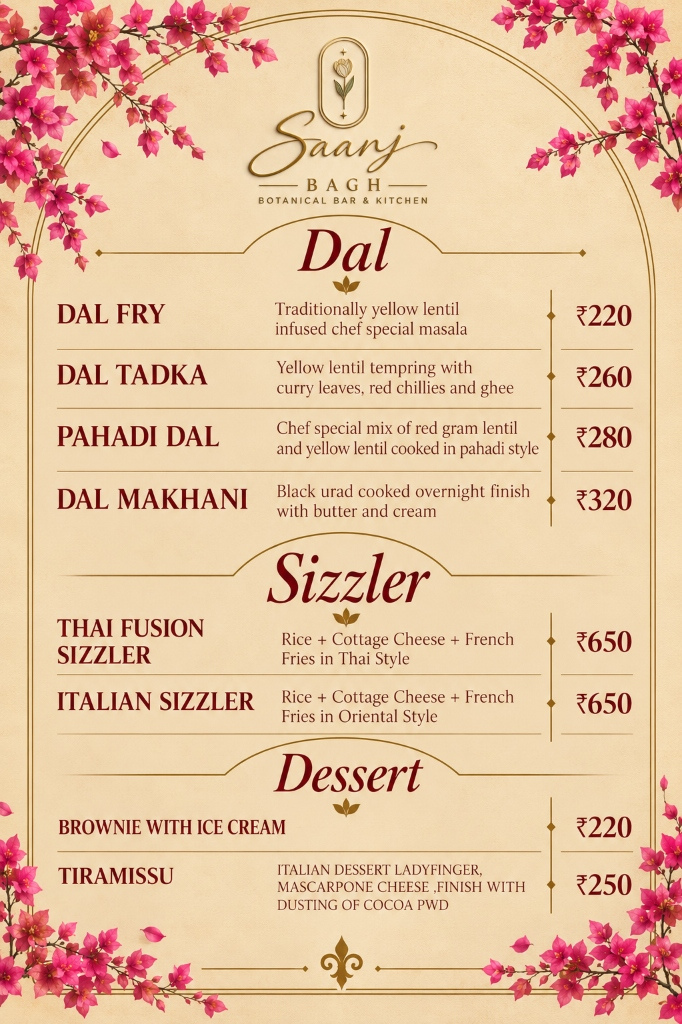
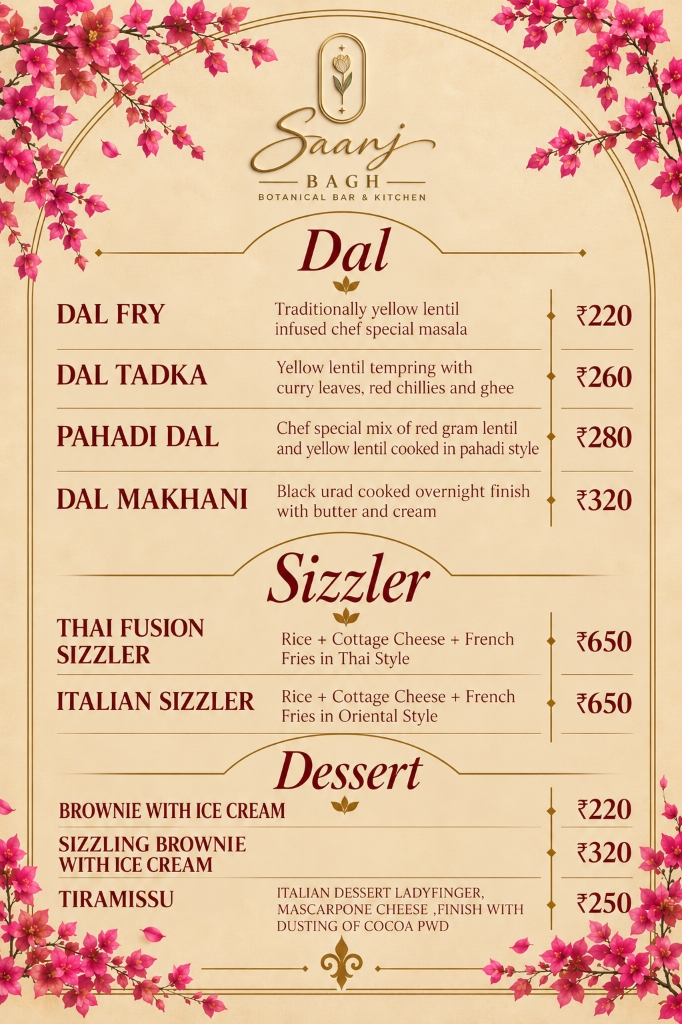
Expand Beverages to 4 pages and update Food Menu last page with Desserts

diff --git a/styles.css b/styles.css
@@ -748,56 +748,47 @@ html, body {
   -webkit-user-drag: none;
 }
 
-/* Beverages Page 1: Shakes, Smoothies & Beverages (Page 1) */
-.bev-shakes-layer {
-  z-index: 2;
-  background: #FDF4E7;
-  opacity: 1;
-  pointer-events: none;
-}
-
-/* Beverages Page 0: Coffee (Page 0) */
-.bev-coffee-layer {
-  z-index: 4;
-  background: #F8ECD7;
-  opacity: 1;
-  pointer-events: auto;
-}
+/* Beverages Layer Stacking (4 Pages) */
+.bev-beverages-layer { z-index: 2; background: #FDF4E7; opacity: 1; pointer-events: none; }
+.bev-shakes-smoothies-layer { z-index: 4; background: #F8ECD7; opacity: 1; pointer-events: none; }
+.bev-coffee-shakes-layer { z-index: 6; background: #FDF4E7; opacity: 1; pointer-events: none; }
+.bev-coffee-layer { z-index: 8; background: #F8ECD7; opacity: 1; pointer-events: auto; }
 
 /* Beverages State: Page 0 (Coffee active) */
-.menu-book-container[data-menu="beverages"][data-state="bev-0"] .bev-coffee-layer {
-  opacity: 1;
-  pointer-events: auto;
-  visibility: visible;
-}
-.menu-book-container[data-menu="beverages"][data-state="bev-0"] .bev-shakes-layer {
-  opacity: 1;
-  pointer-events: none;
-  visibility: visible;
-}
+.menu-book-container[data-menu="beverages"][data-state="bev-0"] .bev-coffee-layer { opacity: 1; pointer-events: auto; visibility: visible; }
+.menu-book-container[data-menu="beverages"][data-state="bev-0"] .bev-coffee-shakes-layer { opacity: 1; pointer-events: none; visibility: visible; }
 
 /* Beverages State: Animating Page 0 -> 1 */
-.menu-book-container[data-menu="beverages"][data-state="animating-bev-0-1"] .bev-coffee-layer {
-  opacity: 0;
-  pointer-events: none;
-}
-.menu-book-container[data-menu="beverages"][data-state="animating-bev-0-1"] .bev-shakes-layer {
-  opacity: 1;
-  pointer-events: none;
-  visibility: visible;
-}
+.menu-book-container[data-menu="beverages"][data-state="animating-bev-0-1"] .bev-coffee-layer { opacity: 0; pointer-events: none; }
+.menu-book-container[data-menu="beverages"][data-state="animating-bev-0-1"] .bev-coffee-shakes-layer { opacity: 1; pointer-events: none; visibility: visible; }
 
-/* Beverages State: Page 1 (Shakes, Smoothies & Beverages active) */
-.menu-book-container[data-menu="beverages"][data-state="bev-1"] .bev-coffee-layer {
-  opacity: 0;
-  pointer-events: none;
-  visibility: hidden;
-}
-.menu-book-container[data-menu="beverages"][data-state="bev-1"] .bev-shakes-layer {
-  opacity: 1;
-  pointer-events: auto;
-  visibility: visible;
-}
+/* Beverages State: Page 1 (Coffee & Shakes active) */
+.menu-book-container[data-menu="beverages"][data-state="bev-1"] .bev-coffee-layer { opacity: 0; pointer-events: none; visibility: hidden; }
+.menu-book-container[data-menu="beverages"][data-state="bev-1"] .bev-coffee-shakes-layer { opacity: 1; pointer-events: auto; visibility: visible; }
+.menu-book-container[data-menu="beverages"][data-state="bev-1"] .bev-shakes-smoothies-layer { opacity: 1; pointer-events: none; visibility: visible; }
+
+/* Beverages State: Animating Page 1 -> 2 */
+.menu-book-container[data-menu="beverages"][data-state="animating-bev-1-2"] .bev-coffee-layer { opacity: 0; pointer-events: none; visibility: hidden; }
+.menu-book-container[data-menu="beverages"][data-state="animating-bev-1-2"] .bev-coffee-shakes-layer { opacity: 0; pointer-events: none; }
+.menu-book-container[data-menu="beverages"][data-state="animating-bev-1-2"] .bev-shakes-smoothies-layer { opacity: 1; pointer-events: none; visibility: visible; }
+
+/* Beverages State: Page 2 (Shakes & Smoothies active) */
+.menu-book-container[data-menu="beverages"][data-state="bev-2"] .bev-coffee-layer,
+.menu-book-container[data-menu="beverages"][data-state="bev-2"] .bev-coffee-shakes-layer { opacity: 0; pointer-events: none; visibility: hidden; }
+.menu-book-container[data-menu="beverages"][data-state="bev-2"] .bev-shakes-smoothies-layer { opacity: 1; pointer-events: auto; visibility: visible; }
+.menu-book-container[data-menu="beverages"][data-state="bev-2"] .bev-beverages-layer { opacity: 1; pointer-events: none; visibility: visible; }
+
+/* Beverages State: Animating Page 2 -> 3 */
+.menu-book-container[data-menu="beverages"][data-state="animating-bev-2-3"] .bev-coffee-layer,
+.menu-book-container[data-menu="beverages"][data-state="animating-bev-2-3"] .bev-coffee-shakes-layer { opacity: 0; pointer-events: none; visibility: hidden; }
+.menu-book-container[data-menu="beverages"][data-state="animating-bev-2-3"] .bev-shakes-smoothies-layer { opacity: 0; pointer-events: none; }
+.menu-book-container[data-menu="beverages"][data-state="animating-bev-2-3"] .bev-beverages-layer { opacity: 1; pointer-events: none; visibility: visible; }
+
+/* Beverages State: Page 3 (Beverages active) */
+.menu-book-container[data-menu="beverages"][data-state="bev-3"] .bev-coffee-layer,
+.menu-book-container[data-menu="beverages"][data-state="bev-3"] .bev-coffee-shakes-layer,
+.menu-book-container[data-menu="beverages"][data-state="bev-3"] .bev-shakes-smoothies-layer { opacity: 0; pointer-events: none; visibility: hidden; }
+.menu-book-container[data-menu="beverages"][data-state="bev-3"] .bev-beverages-layer { opacity: 1; pointer-events: auto; visibility: visible; }
 
 /* --- 3B. DELICATE BOTANICAL COVER BREEZE ANIMATION --- */
 /* Strictly pure foliage movement: zero architectural, arch, pillar, or border movement */

diff --git a/index.html b/index.html
@@ -20,7 +20,7 @@
     }
   </script>
   <link rel="icon" type="image/jpeg" href="assets/images/saanj-bagh-logo.jpg">
-  <link rel="stylesheet" href="styles.css?v=20261021f">
+  <link rel="stylesheet" href="styles.css?v=20261021h">
   <script>
     // Early Synchronous View Routing Detector (prevents visual flashing)
     (function() {
@@ -85,10 +85,10 @@
              PAGE LAYER: 09 · INDIAN MENU — PAGE 3: DAL & SIZZLER (Page 9)
              Revealed when turning forward from Indian Page 2
              ====================================================== -->
-        <div class="book-layer food-layer indian-layer indian-3-layer" id="indian3Layer" aria-label="Indian Menu — Dal &amp; Sizzler">
+        <div class="book-layer food-layer indian-layer indian-3-layer" id="indian3Layer" aria-label="Indian Menu — Dal, Sizzler &amp; Dessert">
           <img 
-            src="assets/images/indian-3.jpg" 
-            alt="Saanj Bagh — Indian Menu — Dal &amp; Sizzler (Page 3)" 
+            src="assets/images/indian-3.jpg?v=20261021h" 
+            alt="Saanj Bagh — Indian Menu — Dal, Sizzler &amp; Dessert (Page 9)" 
             class="menu-artwork-img"
             id="indian3Artwork"
             draggable="false"
@@ -522,15 +522,43 @@
         </div>
 
         <!-- ======================================================
-             BEVERAGES MENU PAGE LAYER 1: SHAKES, SMOOTHIES & BEVERAGES (Beverages Page 1)
+             BEVERAGES MENU PAGE LAYER 3: BEVERAGES (Beverages Page 3)
+             Revealed when turning forward from Shakes & Smoothies
+             ====================================================== -->
+        <div class="book-layer bev-layer bev-beverages-layer" id="bevBeveragesLayer" aria-label="Beverages — Refreshers &amp; Beverages">
+          <img 
+            src="assets/images/beverages-4-beverages.jpg?v=20261021g" 
+            alt="Saanj Bagh — Beverages Menu" 
+            class="menu-artwork-img bev-artwork-img"
+            id="bevBeveragesArtwork"
+            draggable="false"
+          />
+        </div>
+
+        <!-- ======================================================
+             BEVERAGES MENU PAGE LAYER 2: SHAKES & SMOOTHIES (Beverages Page 2)
+             Revealed when turning forward from Coffee & Shakes
+             ====================================================== -->
+        <div class="book-layer bev-layer bev-shakes-smoothies-layer" id="bevShakesSmoothiesLayer" aria-label="Beverages — Shakes &amp; Smoothies">
+          <img 
+            src="assets/images/beverages-3-shakes-smoothies.jpg?v=20261021g" 
+            alt="Saanj Bagh — Shakes &amp; Smoothies Menu" 
+            class="menu-artwork-img bev-artwork-img"
+            id="bevShakesSmoothiesArtwork"
+            draggable="false"
+          />
+        </div>
+
+        <!-- ======================================================
+             BEVERAGES MENU PAGE LAYER 1: COFFEE & SHAKES (Beverages Page 1)
              Revealed when turning forward from Coffee
              ====================================================== -->
-        <div class="book-layer bev-layer bev-shakes-layer" id="bevShakesLayer" aria-label="Beverages — Shakes, Smoothies &amp; Beverages">
+        <div class="book-layer bev-layer bev-coffee-shakes-layer" id="bevCoffeeShakesLayer" aria-label="Beverages — Coffee &amp; Shakes">
           <img 
-            src="assets/images/shakes-beverages-menu.jpg" 
-            alt="Saanj Bagh — Shakes, Smoothies &amp; Beverages Menu" 
+            src="assets/images/beverages-2-coffee-shakes.jpg?v=20261021g" 
+            alt="Saanj Bagh — Coffee &amp; Shakes Menu" 
             class="menu-artwork-img bev-artwork-img"
-            id="bevShakesArtwork"
+            id="bevCoffeeShakesArtwork"
             draggable="false"
           />
         </div>
@@ -541,7 +569,7 @@
              ====================================================== -->
         <div class="book-layer bev-layer bev-coffee-layer" id="bevCoffeeLayer" aria-label="Beverages — Coffee Menu">
           <img 
-            src="assets/images/coffee-menu.png" 
+            src="assets/images/beverages-1-coffee.jpg?v=20261021g" 
             alt="Saanj Bagh — Coffee Menu" 
             class="menu-artwork-img bev-artwork-img"
             id="bevCoffeeArtwork"
@@ -1155,6 +1183,19 @@
         <p>Rice + Cottage Cheese + French Fries In Oriental Style</p>
         <span>Price: ₹650</span>
       </article>
+      <article>
+        <h3>23 — Brownie with Ice Cream</h3>
+        <span>Price: ₹220</span>
+      </article>
+      <article>
+        <h3>24 — Sizzling Brownie with Ice Cream</h3>
+        <span>Price: ₹320</span>
+      </article>
+      <article>
+        <h3>25 — Tiramissu</h3>
+        <p>Italian dessert ladyfinger, mascarpone cheese, finish with dusting of cocoa pwd</p>
+        <span>Price: ₹250</span>
+      </article>
     </section>
 
     <!-- Beverages Menu Semantic Content -->
@@ -1331,7 +1372,7 @@
     </section>
   </div>
 
-  <script src="app.js?v=20261021f"></script>
+  <script src="app.js?v=20261021h"></script>
 </body>
 </html>
 

diff --git a/app.js b/app.js
@@ -107,11 +107,16 @@ document.addEventListener('DOMContentLoaded', () => {
   const cocktailWineArtwork = document.getElementById('cocktailWineArtwork');
   const cocktailIcedTeaArtwork = document.getElementById('cocktailIcedTeaArtwork');
 
-  // Beverages Menu Layers & Artworks (Coffee + Shakes, Smoothies & Beverages)
+  // Beverages Menu Layers & Artworks (4 Pages)
   const bevCoffeeLayer = document.getElementById('bevCoffeeLayer');
-  const bevShakesLayer = document.getElementById('bevShakesLayer');
+  const bevCoffeeShakesLayer = document.getElementById('bevCoffeeShakesLayer');
+  const bevShakesSmoothiesLayer = document.getElementById('bevShakesSmoothiesLayer');
+  const bevBeveragesLayer = document.getElementById('bevBeveragesLayer');
+
   const bevCoffeeArtwork = document.getElementById('bevCoffeeArtwork');
-  const bevShakesArtwork = document.getElementById('bevShakesArtwork');
+  const bevCoffeeShakesArtwork = document.getElementById('bevCoffeeShakesArtwork');
+  const bevShakesSmoothiesArtwork = document.getElementById('bevShakesSmoothiesArtwork');
+  const bevBeveragesArtwork = document.getElementById('bevBeveragesArtwork');
 
   // 4-Way Menu Switcher Controls
   const btnFoodMenu = document.getElementById('btnFoodMenu');
@@ -161,8 +166,10 @@ document.addEventListener('DOMContentLoaded', () => {
   ];
 
   const BEVERAGES_MENU_PAGES = [
-    { title: 'COFFEE', src: 'assets/images/coffee-menu.png', alt: 'Saanj Bagh — Coffee Menu' },
-    { title: 'SHAKES, SMOOTHIES & BEVERAGES', src: 'assets/images/shakes-beverages-menu.jpg', alt: 'Saanj Bagh — Shakes, Smoothies & Beverages Menu' }
+    { title: 'COFFEE', src: 'assets/images/beverages-1-coffee.jpg', alt: 'Saanj Bagh — Coffee Menu' },
+    { title: 'COFFEE & SHAKES', src: 'assets/images/beverages-2-coffee-shakes.jpg', alt: 'Saanj Bagh — Coffee & Shakes Menu' },
+    { title: 'SHAKES & SMOOTHIES', src: 'assets/images/beverages-3-shakes-smoothies.jpg', alt: 'Saanj Bagh — Shakes & Smoothies Menu' },
+    { title: 'BEVERAGES', src: 'assets/images/beverages-4-beverages.jpg', alt: 'Saanj Bagh — Beverages Menu' }
   ];
 
   // --- High-DPI Canvas 2D Setup (Uniform 682 x 1024 Aspect Ratio) ---
@@ -192,7 +199,7 @@ document.addEventListener('DOMContentLoaded', () => {
   let foodPage = 0;             // [0..9]
   let barPage = 0;              // [0..6]
   let cocktailPage = 0;         // [0..7]
-  let beveragesPage = 0;        // [0..1]
+  let beveragesPage = 0;        // [0..3]
   let currentPage = 0;          // Active page within the active menu
   let currentState = 'cover';   // Current data-state attribute
   let activeTurningPage = 0;    // Active turning page index
@@ -208,7 +215,7 @@ document.addEventListener('DOMContentLoaded', () => {
     if (currentMenu === 'food') return 9;
     if (currentMenu === 'bar') return 6;
     if (currentMenu === 'cocktail') return 7;
-    if (currentMenu === 'beverages') return 1;
+    if (currentMenu === 'beverages') return 3;
     return 9;
   }
 
@@ -377,7 +384,9 @@ document.addEventListener('DOMContentLoaded', () => {
       else if (turningPage === 1) turningArt = cocktailTequilaWhiskyArtwork;
       else turningArt = cocktailSigArtwork;
     } else if (currentMenu === 'beverages') {
-      turningArt = bevCoffeeArtwork;
+      if (turningPage === 2) turningArt = bevShakesSmoothiesArtwork;
+      else if (turningPage === 1) turningArt = bevCoffeeShakesArtwork;
+      else turningArt = bevCoffeeArtwork;
     }
 
     if (turningArt && turningArt.complete) {
@@ -563,7 +572,9 @@ document.addEventListener('DOMContentLoaded', () => {
     } else if (currentMenu === 'beverages') {
       beveragesPage = page;
       if (page === 0) currentState = 'bev-0';
-      else currentState = 'bev-1';
+      else if (page === 1) currentState = 'bev-1';
+      else if (page === 2) currentState = 'bev-2';
+      else if (page === 3) currentState = 'bev-3';
     }
 
     menuBook.dataset.menu = currentMenu;
@@ -1104,8 +1115,10 @@ document.addEventListener('DOMContentLoaded', () => {
     'assets/images/cocktail-6-whisky.jpg',
     'assets/images/cocktail-7-wine.jpg',
     'assets/images/cocktail-8-iced-tea.jpg',
-    'assets/images/coffee-menu.png',
-    'assets/images/shakes-beverages-menu.jpg'
+    'assets/images/beverages-1-coffee.jpg',
+    'assets/images/beverages-2-coffee-shakes.jpg',
+    'assets/images/beverages-3-shakes-smoothies.jpg',
+    'assets/images/beverages-4-beverages.jpg'
   ];
 
   preloadSources.forEach((src) => {
@@ -1161,8 +1174,8 @@ document.addEventListener('DOMContentLoaded', () => {
       id: 'beverages',
       icon: '☕',
       title: 'BEVERAGES',
-      subtitle: 'Hot & Cold Coffees, Thick Shakes, Smoothies, Crushes & Refreshers (2 Pages)',
-      badge: '2 Pages',
+      subtitle: 'Coffees, Thick Shakes, Smoothies, Crushes & Refreshers (4 Pages)',
+      badge: '4 Pages',
       btnText: 'View Beverages'
     }
   };
